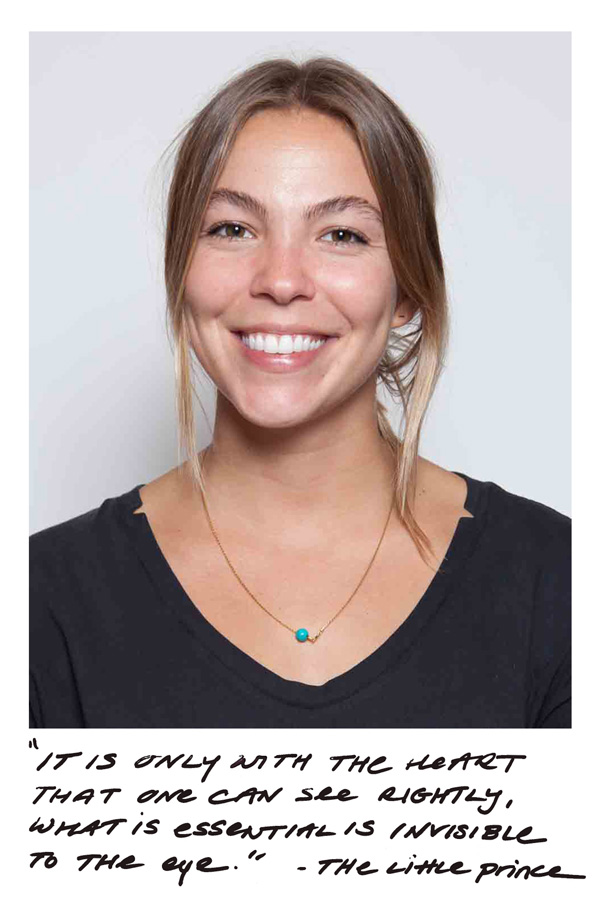
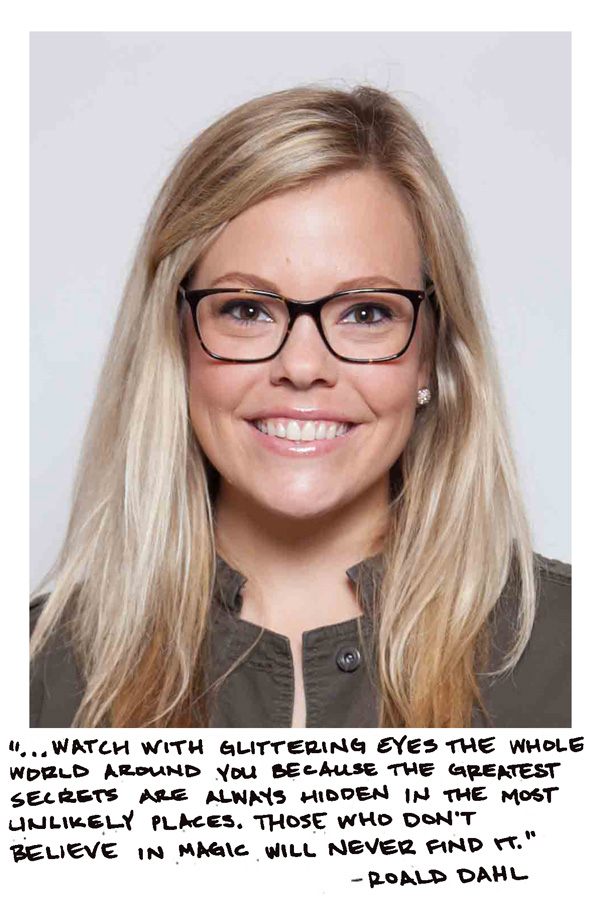
update headshot
Former-commit-id: d84a276547de709daffadb97b4f451e77246f4f7

diff --git a/stylesheets/culture.scss b/stylesheets/culture.scss
@@ -173,13 +173,13 @@
 					li {
 						animation: fadeout 12s infinite; 
 						&:first-of-type {
-							background: url(../assets/images/headshots/4-3.jpg);
+							background: url(../assets/images/headshots/5-3.jpg);
 							background-size: 100% auto;
 							background-repeat: no-repeat;
 							animation-delay: 13s;
 						}
 						&:nth-of-type(2) {
-							background: url(../assets/images/headshots/2-3.jpg);
+							background: url(../assets/images/headshots/5-2.jpg);
 							background-size: 100% auto;
 							background-repeat: no-repeat;
 							animation-delay: 5s;

diff --git a/stylesheets/home.scss b/stylesheets/home.scss
@@ -40,6 +40,8 @@
 		opacity: 0;
 		transform: translateY(1000px);
 		transition: all 1s;
+		transition-delay: 100s;
+		position: relative;
 		&.show {
 			opacity: 1;
 			transform: translateY(0);
